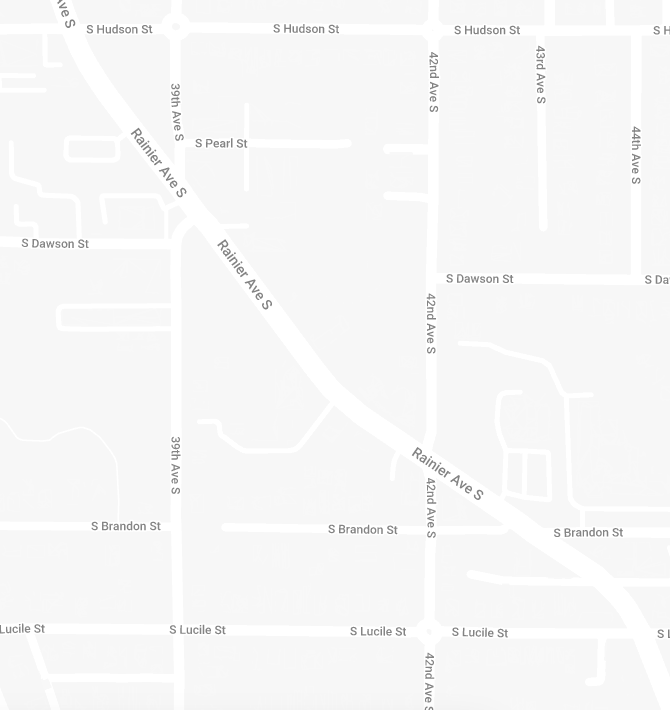
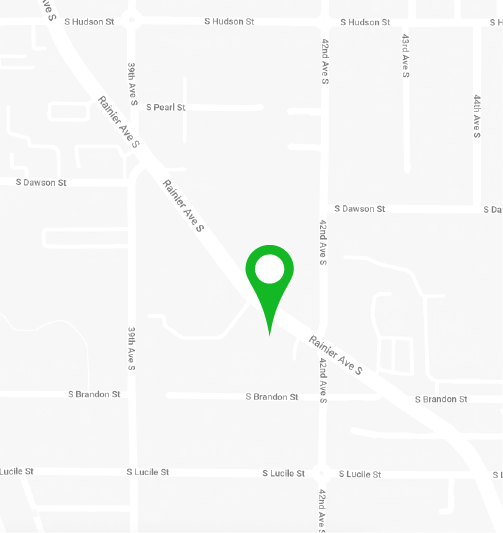
updated cms endpoints

diff --git a/src/components/Events.js b/src/components/Events.js
@@ -1,13 +1,25 @@
-import React from "react";
+import { data } from "autoprefixer";
+import React, { useEffect, useState } from "react";
+import { wpPosts } from "../api/wp";
 
 export const Events = () => {
+  const [postData, setPostData] = useState();
+  useEffect(() => {
+    const getData = async () => {
+      const res = await wpPosts();
+      setPostData(res);
+      console.log(res);
+    };
+    getData();
+  }, []);
+
   return (
     <>
-      {/* Events */}
       <section
         id="events"
         class="py-24 md:pt-32 bg-trasnparent max-w-5xl mx-auto"
       >
+        {" "}
         <div class="container px-4 mx-auto">
           <div class="text-left">
             <span class="inline-block mb-4 text-base text-teal-500 uppercase font-semibold tracking-[.2rem]">
@@ -17,51 +29,31 @@ export const Events = () => {
               News and Events
             </h3>
           </div>
-          <div class="flex flex-col -mx-4 pt-12 max-w-4xl">
-            <div class="w-full md:w-full px-4 mb-4">
-              <div class="group h-full">
-                <div class="group relative h-full px-8 pt-16 pb-8 bg-white group-hover:bg-trasnparent rounded-md shadow-md hover:shadow-xl transition duration-200">
-                  <h3 class="mb-4 text-xl leading-7 text-gray-900 font-bold">
-                    Join us for Pawtraits Happy Hour on Saturday, July 23 from
-                    1-3pm
-                  </h3>
-                  <p class="text-gray-500 group-hover:text-gray-600 font-medium transition duration-200">
-                    We're partnering with Warner Brothers’ DC League of Super
-                    Pets to host a Pawtraits Happy Hour. We'll be giving away
-                    dog treats, toys, and movie promo items including tickets to
-                    an advance screening. Best of all we will have a pet
-                    photographer to take a professional “pawtrait” of your dog.
-                    **Please note: All activities are based on a first come
-                    first serve basis. Photographs will be uploaded to a general
-                    shared gallery 2 weeks later and shared via email.
-                  </p>
-                  <img
-                    className="mx-auto my-8 max-w-[60%]"
-                    src={require("../assets/9f859b_449e1caffab34864af4a46b6a57011b9_mv2.webp")}
-                  />
+          {postData ? (
+            postData.map((obj, idx) => (
+              <div class="flex flex-col -mx-4 pt-12 max-w-4xl" key={idx}>
+                <div class="w-full md:w-full px-4 mb-4">
+                  <div class="group h-full">
+                    <div class="group relative h-full px-8 pt-16 pb-8 bg-white group-hover:bg-trasnparent rounded-md shadow-md hover:shadow-xl transition duration-200">
+                      <h3 class="mb-4 text-xl leading-7 text-gray-900 font-bold">
+                        {obj.title.rendered}
+                      </h3>
+                      <p
+                        class="text-gray-500 group-hover:text-gray-600 font-medium transition duration-200"
+                        dangerouslySetInnerHTML={{
+                          __html: obj.content.rendered,
+                        }}
+                      ></p>
+                    </div>
+                  </div>
                 </div>
               </div>
-            </div>
-          </div>
-          <div class="flex flex-col -mx-4 pt-12 max-w-4xl">
-            <div class="w-full md:w-full px-4 mb-4">
-              <div class="group h-full">
-                <div class="group relative h-full px-8 pt-16 pb-8 bg-white group-hover:bg-trasnparent rounded-md shadow-md hover:shadow-xl transition duration-200">
-                  <h3 class="mb-4 text-xl leading-7 text-gray-900 font-bold">
-                    Santa Photos on Sat 11/19 from 3-6 PM
-                  </h3>
-                  <p class="text-gray-500 group-hover:text-gray-600 font-medium transition duration-200">
-                    Join us for Free Santa Photos this Saturday.
-                  </p>
-                  <img
-                    className="mx-auto my-8 max-w-[60%]"
-                    src={require("../assets/santa-photo-placeholder.jpeg")}
-                  />
-                </div>
-              </div>
-            </div>
-          </div>
+            ))
+          ) : (
+            <p>Loading...</p>
+          )}
         </div>
+        {/*  */}
       </section>
     </>
   );

diff --git a/src/components/Services.js b/src/components/Services.js
@@ -2,7 +2,8 @@ import React from "react";
 import { DayCare } from "./DayCare";
 import { PlayPark } from "./PlayPark";
 
-export const Services = () => {
+export const Services = ({ data }) => {
+  // console.log(data);
   return (
     <section
       id="services"
@@ -21,12 +22,17 @@ export const Services = () => {
             <p class="inline-block mb-4 text-xl text-gray-800 uppercase font-semibold tracking-[.2rem]">
               Play Park
             </p>
-            <div class="mb-8">
-              <span className="font-semibold">Mon - Fri</span> 6pm - 9pm
-              <br />
-              <span className="font-semibold">Sat </span>12pm - 8pm,{" "}
-              <span className="font-semibold">Sun</span> 12pm - 6pm
-            </div>
+            {data && (
+              <div className="mb-8 text-sm text-gray-800 leadig-loose md:text-base md:leading-loose">
+                <span className="font-semibold">Mon - Fri</span>{" "}
+                {data["1_park_open_weekday"]} - {data["2_park_close_weekday"]}
+                <br />
+                <span className="font-semibold">Sat </span>
+                {data["3_park_open_sat"]} - {data["4_park_close_sat"]},{" "}
+                <span className="font-semibold">Sun</span>{" "}
+                {data["5_park_open_sun"]} - {data["6_park_close_sun"]}
+              </div>
+            )}
             <p class="mb-8 text-lg md:text-xl text-gray-500 font-medium leading-loose md:leading-loose">
               Looking for a fun and convenient way to exercise your dog? Our
               dog-friendly park is the perfect place to bring your furry friend
@@ -45,9 +51,12 @@ export const Services = () => {
             <p class="inline-block mb-4 text-xl text-gray-800 uppercase font-semibold tracking-[.2rem]">
               Day Care
             </p>
-            <div class="mb-8">
-              <span className="font-semibold">Mon - Fri</span> 7am - 6pm
-            </div>
+            {data && (
+              <div className="mb-8 text-sm text-gray-800 leadig-loose md:text-base md:leading-loose">
+                <span className="font-semibold">Mon - Fri</span>{" "}
+                {data["7_daycare_open"]} - {data["8_daycare_close"]}
+              </div>
+            )}
             <p class="mb-8 text-lg md:text-xl text-gray-500 font-medium leading-loose md:leading-loose">
               The perfect solution for busy pet parents! We offer a safe, fun,
               and stimulating environment for your dog to enjoy while you are

diff --git a/src/App.js b/src/App.js
@@ -1,19 +1,27 @@
-import { useState } from "react";
+import { useEffect, useState } from "react";
 import "./App.css";
-import paw from "./assets/paw@100x.png";
+
 import { Welcome } from "./components/Welcome";
 import { NavCompact } from "./components/NavCompact";
 import { NavFull } from "./components/NavFull";
 import { Services } from "./components/Services";
 import { Faq } from "./components/Faq";
 import { Events } from "./components/Events";
-import { PlayPark } from "./components/PlayPark";
 import { Pricing } from "./components/Pricing";
 import { Contact } from "./components/Contact";
 import { Footer } from "./components/Footer";
+import { wpPages } from "./api/wp";
 
 function App() {
   const [open, setOpen] = useState(false);
+  const [pageData, setPageData] = useState();
+  useEffect(() => {
+    const getData = async () => {
+      const res = await wpPages();
+      setPageData(res);
+    };
+    getData();
+  }, []);
 
   return (
     <div class="antialiased bg-body text-body font-body bg">
@@ -23,8 +31,12 @@ function App() {
           {open ? <NavCompact setOpen={setOpen} /> : <div></div>}
           <Welcome />
         </header>
-        <Services />
-        <Pricing />
+        <Services
+          data={
+            pageData && pageData.filter((obj) => obj.id === 99)[0]["x_metadata"]
+          }
+        />
+        <Pricing data={pageData} />
         <Events />
         <Faq />
         <Contact />

diff --git a/src/api/wp.js b/src/api/wp.js
@@ -1,0 +1,19 @@
+import axios from "axios";
+
+export const wpPages = async () => {
+  try {
+    const res = await axios.get("https://sharelist.click/wp-json/wp/v2/pages");
+    return res.data;
+  } catch (err) {
+    console.log(err);
+  }
+};
+
+export const wpPosts = async () => {
+  try {
+    const res = await axios.get("https://sharelist.click/wp-json/wp/v2/posts");
+    return res.data;
+  } catch (err) {
+    console.log(err);
+  }
+};

diff --git a/src/components/Welcome.js b/src/components/Welcome.js
@@ -25,7 +25,7 @@ export const Welcome = () => {
                 5269 Rainier Ave. S, Seattle, WA
               </span>
             </p>
-            <img src={require("../assets/long map.png")} />
+            <img src={require("../assets/summary-map.png")} />
             {/* <div class="flex flex-wrap mb-8 md:mb-16">
               <div class="w-auto py-1 mr-4">
                 <a
